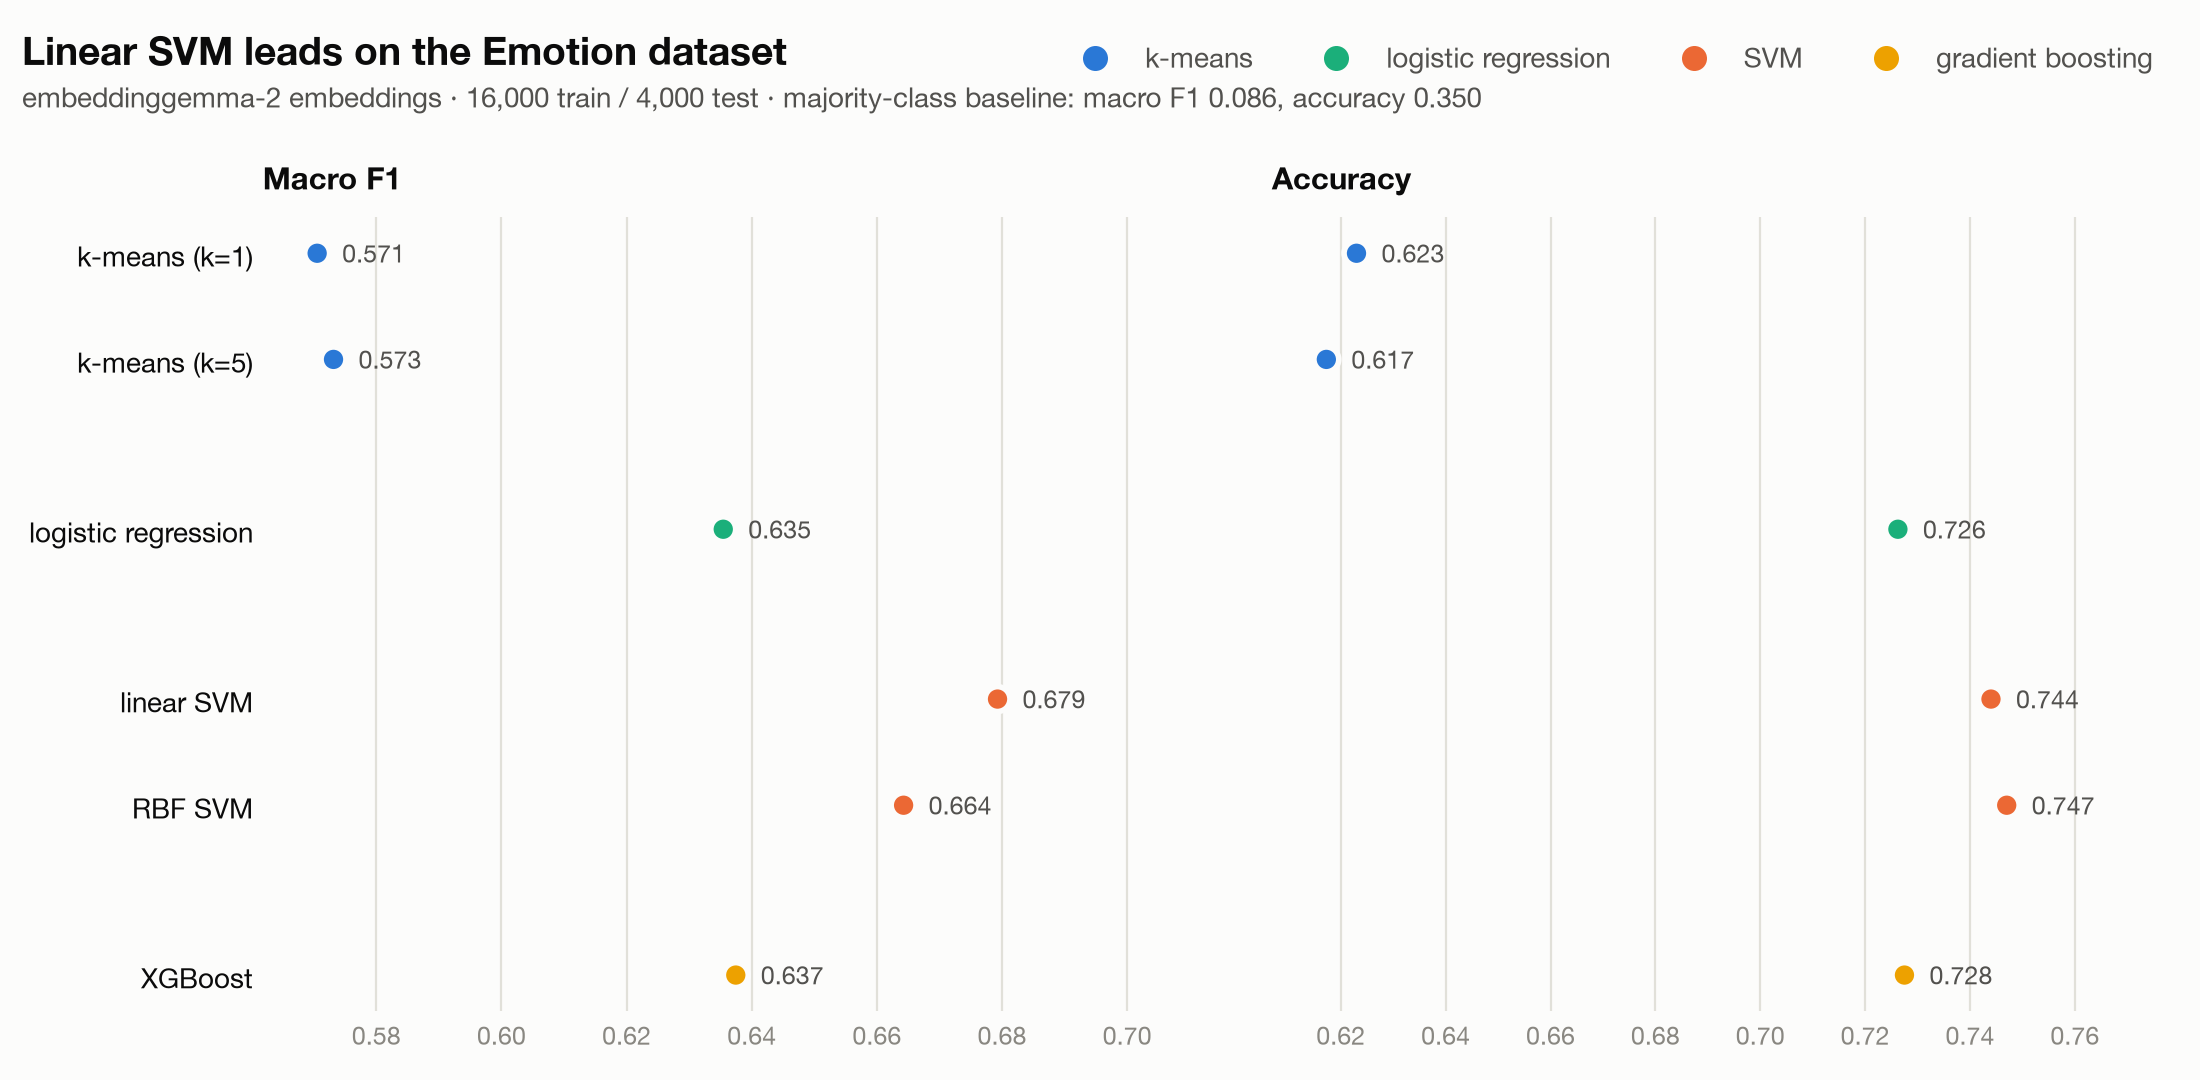
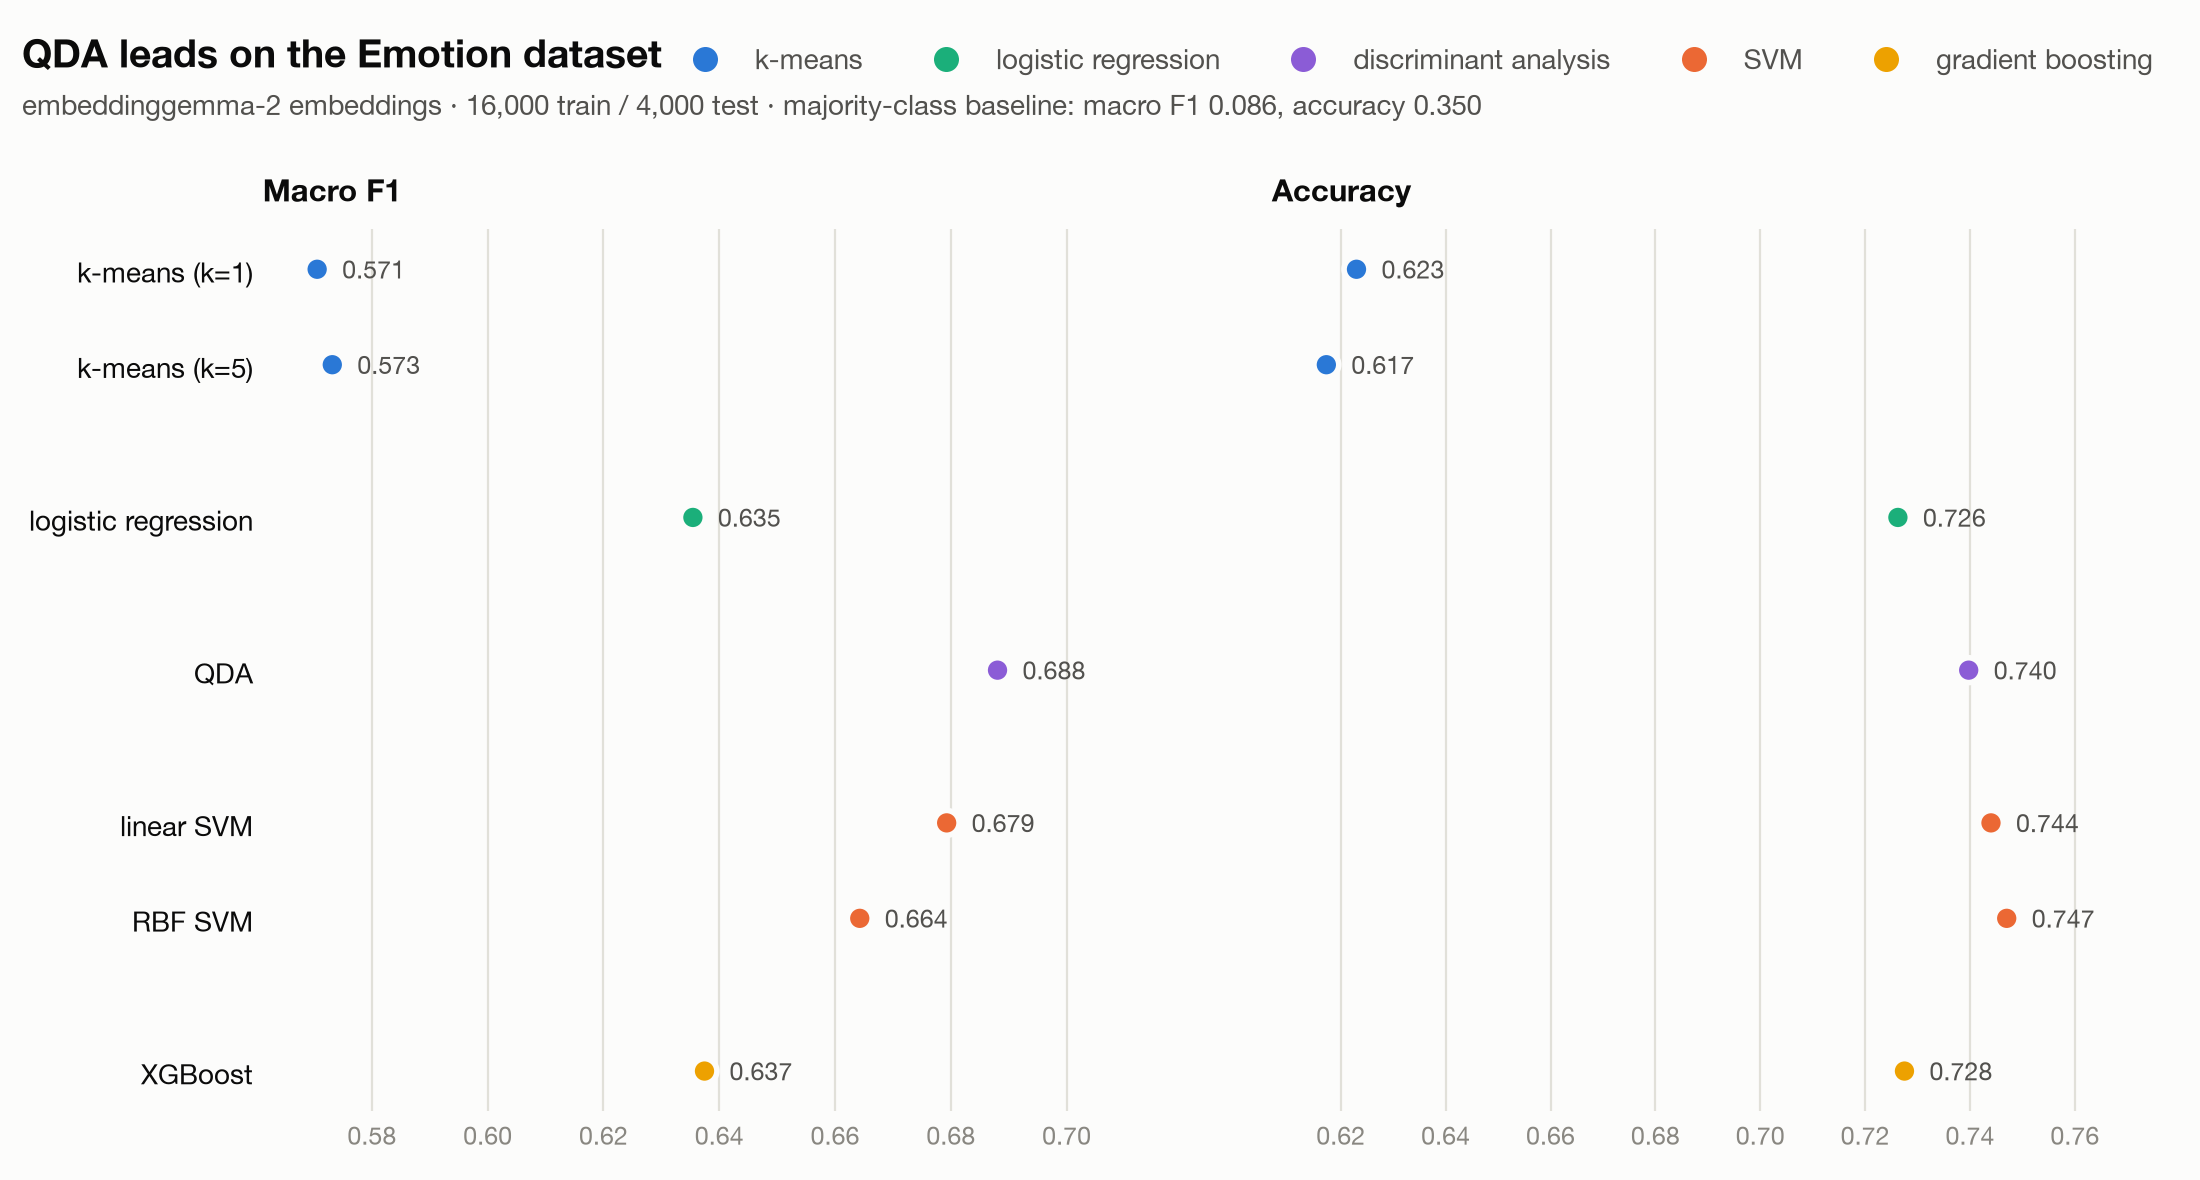
Add a QDA classifier and re-run both datasets
Quadratic discriminant analysis on the embeddings, with tests, wired into
experiment.py and the per-run plots. Results and per-run plots are
regenerated for SMS Spam and Emotion with both embedders.

diff --git a/src/llsvm/qda.py b/src/llsvm/qda.py
@@ -1,0 +1,44 @@
+"""Quadratic discriminant analysis text classifier (scikit-learn)."""
+
+from typing import Any
+
+import numpy as np
+from sklearn.discriminant_analysis import QuadraticDiscriminantAnalysis
+
+from llsvm.text_classifier import TextClassifier
+from llsvm.text_embedder import TextEmbedder
+
+
+class QDAClassifier(TextClassifier):
+    """QDA: one Gaussian per class, each with its own covariance; predicts the most probable class.
+
+    Uses scikit-learn's eigen solver with covariance shrinkage, which replaces each
+    class's sample covariance S by (1 - shrinkage) * S + shrinkage * (trace(S) / d) * I.
+    Shrinkage is needed on text embeddings: they have hundreds of dimensions and a
+    class often has fewer examples than that, which makes S singular. The default
+    of 0.5 did best on a validation split of the training data for both datasets
+    (MiniLM embeddings). Class priors are the class frequencies in the training data.
+
+    Args:
+        embedder: Turns texts into feature vectors.
+        shrinkage: Weight in [0, 1] of the scaled identity in each class covariance.
+        tol: Absolute threshold below which a covariance eigenvalue counts as zero;
+            fit raises if any class covariance is rank deficient. Embedding variances
+            are small (about 1/d per dimension for unit-length vectors), so a low
+            shrinkage may need a lower tol.
+    """
+
+    def __init__(self, embedder: TextEmbedder, shrinkage: float = 0.5, tol: float = 1e-4):
+        super().__init__(embedder)
+        self.shrinkage = shrinkage
+        self.tol = tol
+        self._model: QuadraticDiscriminantAnalysis | None = None
+
+    def config(self) -> dict[str, Any]:
+        return {"shrinkage": self.shrinkage, "tol": self.tol}
+
+    def _fit(self, X: np.ndarray, y: np.ndarray) -> None:
+        self._model = QuadraticDiscriminantAnalysis(solver="eigen", shrinkage=self.shrinkage, tol=self.tol).fit(X, y)
+
+    def _predict(self, X: np.ndarray) -> np.ndarray:
+        return self._model.predict(X)

diff --git a/experiment.py b/experiment.py
@@ -35,6 +35,7 @@ from tqdm import tqdm
 from llsvm.huggingface_text_embedder import HuggingFaceTextEmbedder
 from llsvm.kmeans import KMeansClassifier
 from llsvm.logistic_regression import LogisticRegressionClassifier
+from llsvm.qda import QDAClassifier
 from llsvm.svm import KernelSVM, LinearSVM
 from llsvm.text_classifier import TextClassifier
 from llsvm.text_embedder import TextEmbedder
@@ -78,6 +79,7 @@ def make_classifiers(embedder: TextEmbedder) -> dict[str, TextClassifier]:
         "k-means (k=1)": KMeansClassifier(embedder, k=1),
         "k-means (k=5)": KMeansClassifier(embedder, k=5),
         "logistic regression": LogisticRegressionClassifier(embedder),
+        "QDA": QDAClassifier(embedder),
         "linear SVM": LinearSVM(embedder),
         "RBF SVM": KernelSVM(embedder, kernel="rbf"),
         "XGBoost": XGBoostClassifier(embedder),
@@ -87,6 +89,7 @@ def make_classifiers(embedder: TextEmbedder) -> dict[str, TextClassifier]:
 FAMILIES = {
     KMeansClassifier: "k-means",
     LogisticRegressionClassifier: "logistic regression",
+    QDAClassifier: "discriminant analysis",
     LinearSVM: "SVM",
     KernelSVM: "SVM",
     XGBoostClassifier: "gradient boosting",

diff --git a/tests/test_qda.py b/tests/test_qda.py
@@ -1,0 +1,29 @@
+"""Targeted QDAClassifier tests. General classifier behavior is covered by the contract suite."""
+
+import numpy as np
+
+from fakes import FakeEmbedder
+from llsvm.logistic_regression import LogisticRegressionClassifier
+from llsvm.qda import QDAClassifier
+
+
+def test_shrinkage_reaches_config_hash():
+    emb = FakeEmbedder()
+    assert QDAClassifier(emb, shrinkage=0.2).config_hash != QDAClassifier(emb).config_hash
+
+
+def test_separates_classes_by_spread_where_linear_cannot():
+    # Both classes are centered at the origin; only their spread differs, so no
+    # hyperplane separates them but per-class covariances do. Calls _fit/_predict
+    # directly to feed hand-made 2-D features.
+    rng = np.random.default_rng(0)
+    X = np.vstack([rng.normal(scale=0.1, size=(200, 2)), rng.normal(scale=1.0, size=(200, 2))])
+    y = np.array([0] * 200 + [1] * 200)
+
+    qda = QDAClassifier(FakeEmbedder(), shrinkage=0.0)
+    qda._fit(X, y)
+    assert (qda._predict(X) == y).mean() > 0.9
+
+    linear = LogisticRegressionClassifier(FakeEmbedder())
+    linear._fit(X, y)
+    assert (linear._predict(X) == y).mean() < 0.7

diff --git a/tests/conftest.py b/tests/conftest.py
@@ -4,6 +4,7 @@ from fakes import FakeEmbedder
 from llsvm.huggingface_text_embedder import HuggingFaceTextEmbedder
 from llsvm.kmeans import KMeansClassifier
 from llsvm.logistic_regression import LogisticRegressionClassifier
+from llsvm.qda import QDAClassifier
 from llsvm.svm import KernelSVM, LinearSVM
 from llsvm.xgboost_classifier import XGBoostClassifier
 from llsvm.text_embedder import TextEmbedder
@@ -27,6 +28,7 @@ CLASSIFIER_FACTORIES = [
     pytest.param(KernelSVM, id="rbf-svm"),
     pytest.param(lambda emb: KMeansClassifier(emb, k=2), id="kmeans-k2"),
     pytest.param(LogisticRegressionClassifier, id="logreg"),
+    pytest.param(QDAClassifier, id="qda"),
     pytest.param(XGBoostClassifier, id="xgboost"),
 ]
 

diff --git a/results/plot.py b/results/plot.py
@@ -23,7 +23,8 @@ PLOTS = RESULTS / "plots"
 
 INK, INK_2, MUTED, GRID, SURFACE = "#0b0b0b", "#52514e", "#898781", "#e1e0d9", "#fcfcfb"
 # Categorical slots 1-4, in fixed order (validated colorblind-safe for adjacent pairs).
-FAMILY_COLORS = {"k-means": "#2a78d6", "logistic regression": "#1baf7a", "SVM": "#eb6834", "gradient boosting": "#eda100"}
+FAMILY_COLORS = {"k-means": "#2a78d6", "logistic regression": "#1baf7a", "discriminant analysis": "#8b5cd6",
+                 "SVM": "#eb6834", "gradient boosting": "#eda100"}
 
 
 def plot(results: pd.DataFrame, title: str, subtitle: str, path: Path) -> None:

diff --git a/tests/README.md b/tests/README.md
@@ -31,6 +31,8 @@ uv run pytest -v               # list each test as it runs
   means, small classes, k=2 fits XOR where k=1 can't).
 - `test_logistic_regression.py`, `test_xgboost_classifier.py`: hyperparameters
   reach `config_hash`; XGBoost fits XOR.
+- `test_qda.py`: shrinkage reaches `config_hash`; QDA separates two classes
+  that differ only in spread, where logistic regression can't.
 - `fakes.py`: `FakeEmbedder`, a deterministic model-free embedder. Texts
   starting with `c<k>` (e.g. `"c2 hello"`) land in linearly separable cluster k.
 - `conftest.py`: the `EMBEDDER_FACTORIES` and `CLASSIFIER_FACTORIES` registries.
